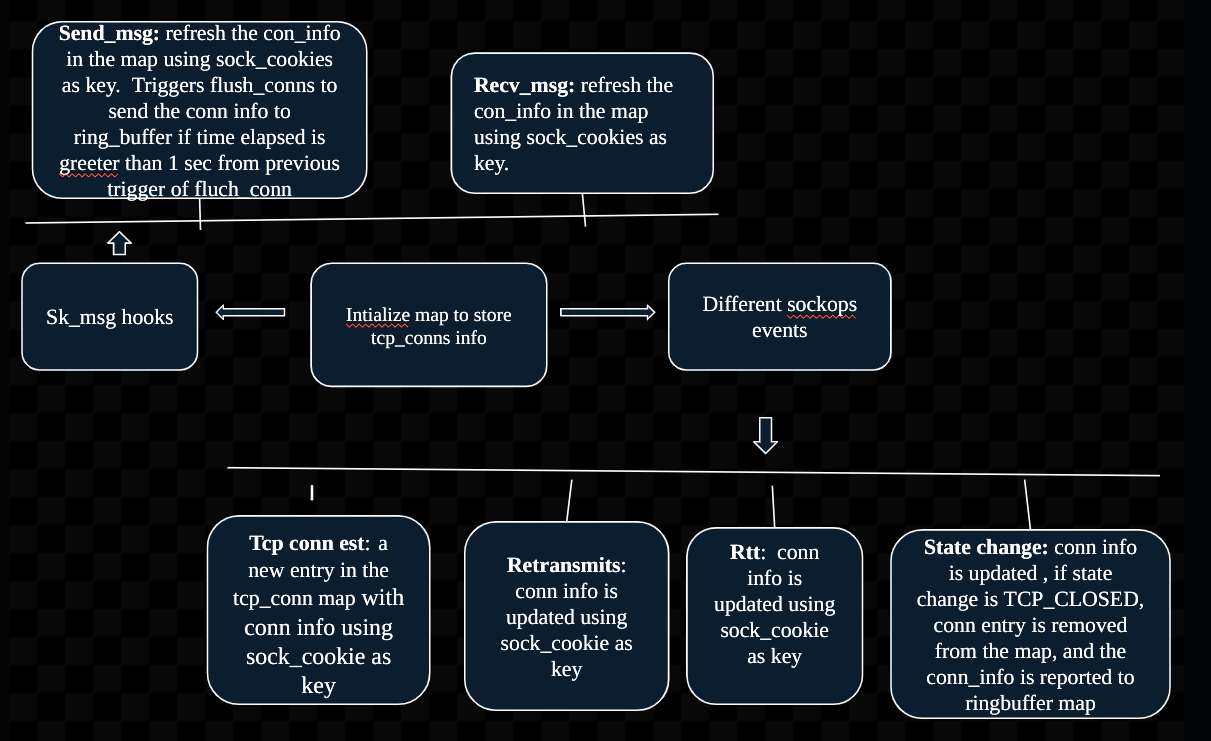
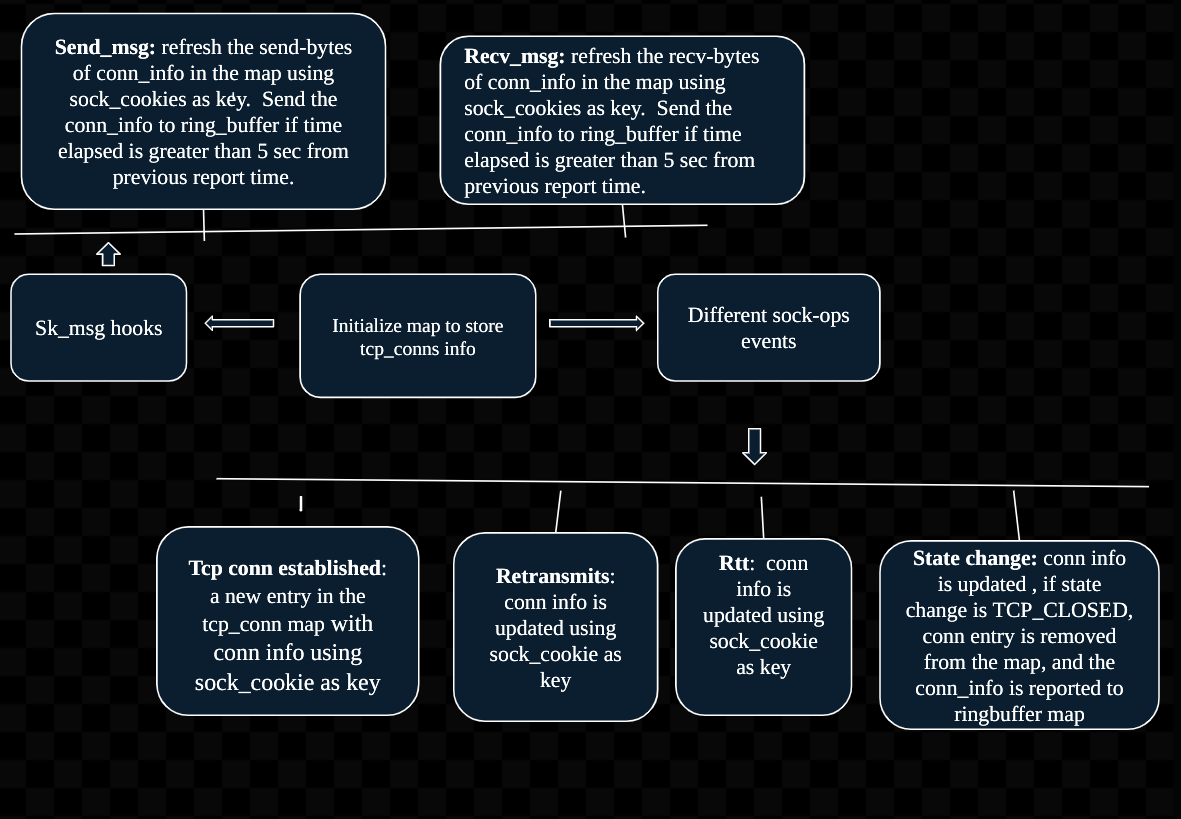
rfac: fixed typos in the tcp_long_coon_desing.png

Changed region(s): [[0.0, 0.0, 1.0, 0.9933], [0.1829, 0.5587, 0.4877, 0.5897]]

diff --git a/docs/proposal/tcp_long_connection_metrics.md b/docs/proposal/tcp_long_connection_metrics.md
@@ -105,7 +105,7 @@ proposal will be implemented, this is the place to discuss them.
 
 #### Collecting Metrics
 
-Decelearing ebpf hash map in probe.h to store realtime information about tcp_connections.
+Declare ebpf hash map in probe.h to store realtime information about tcp_connections.
 
 ```
 // Ebpf map to store active tcp connections
@@ -212,44 +212,36 @@ int sendmsg_prog(struct sk_msg_md *msg)
     if (sk) {
         if (is_managed_by_kmesh_skmsg(msg)) {
             observe_on_data(sk);
+            flush_tcp_conns();
         }
     } else {
         BPF_LOG(ERR, KMESH, "sk_lookup success\n");
     }
-    int key = 0;
-    __u64 *last_time = bpf_map_lookup_elem(&tcp_conn_last_flush, &key);
-    __u64 now = bpf_ktime_get_ns();
 
-    if (!last_time) {
-        __u64 init_time = now;
-        // Initialize last flush time if not set
-        bpf_map_update_elem(&tcp_conn_last_flush, &key, &init_time, BPF_ANY);
-    } else if ((now - *last_time) >= TIMER_INTERVAL_NS) {
-        flush_tcp_conns();
-        // Update last flush time
-        bpf_map_update_elem(&tcp_conn_last_flush, &key, &now, BPF_ANY);
-    }
     return SK_PASS;
 }
 
 ```
 
-For refreshing the received bytes by a connection, we will attach a kprobe on tcp_rcv_established.
-Creating workload/kprobe.c
+For refreshing the received bytes by a connection, we will use sk_skb hook.
+Creating workload/recvmsg.c
 ```
-SEC("kprobe/tcp_rcv_established")
-int bpf_tcp_rcv_established(struct pt_regs *ctx) {
-   
-    struct sk_buff *skb = (struct sk_buff *)PT_REGS_PARM2(ctx);
-     struct bpf_sock *sk = skb->sk;
+SEC("sk_skb")
+int recvmsg_prog(struct __sk_buff *skb)
+{
+    if (skb->family != AF_INET && skb->family != AF_INET6)
+        return SK_PASS;
+
+    struct bpf_sock *sk = skb->sk;
     if (sk) {
-        if (is_managed_by_kmesh_skb(skb)) {
-            observe_on_data(sk);
-        }
+    if (is_managed_by_kmesh_skmsg(msg)) {
+        observe_on_data(sk);
+        flush_tcp_conns();
     } else {
         BPF_LOG(ERR, KMESH, "sk_lookup success\n");
     }
-    return 0;
+    return SK_PASS;
+    }
 }
 ```
 
